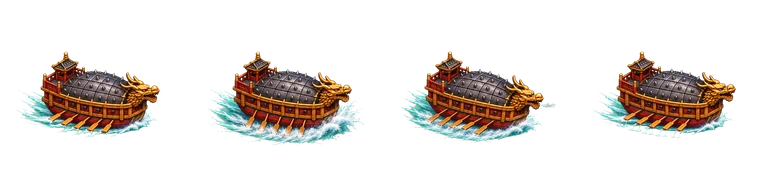
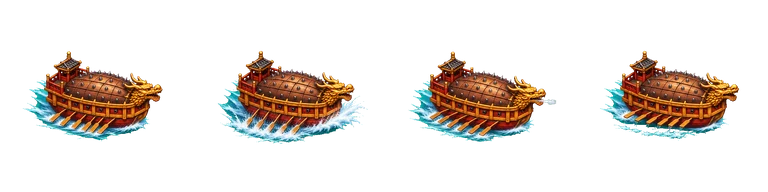
[디자인팀] 한국 결정안 미리보기 v2(나무 덮개 거북선, 성분 목록)
Claude-Session: https://claude.ai/code/session_013M9CK1DXpnv28ZtJdsmhuH

diff --git a/teams/2-디자인/작업기록.md b/teams/2-디자인/작업기록.md
@@ -227,3 +227,4 @@
 - 2026-11-28 한국 완성 샘플 준비: 컷인용 hero/korea.webp(315×320)는 화면 720px로 키우면 흐림 → round1 원본(1024)에서 640px 후보 preview/cutin/korea-cutin.webp(83KB) 만듦, 개발 요청 오면 맞춰 src 반영 여부 물어봄. 불꽃·포신 반동·먼지는 개발팀 요청 목록 기다림.
 - 2026-11-28 개발팀 확인: 코드가 소품 거의 전부 사용(drawHeroProp·직접 drawProp) → prop 정리 안 함, 61개 유지. backup/skill-prop-unused-20261128은 사본으로 남김.
 - 2026-11-28 22차 '살아 움직이는 스킬'(사용자 결정: Claude 안 + 사용자 의견 '소품에 스킬을 감싸서 날아가게'): 한국1 거북선 노 젓기 4칸, 한국2 불덩이 포탄 4칸 생성. 미리보기 preview/alive (https://claude.ai/artifact/WKbwtcj3csjrnUvPyU6Y4A) — 지금/새 안/감싸기 비교, 실제 room 바닥. 개발팀 작업15 요청(korea-2-blast·korea-1-hit·korea-dust) GPT 진행 중.
+- 2026-11-28 사용자 결정: 거북선=감싸기+장수 탑승, 천자총통=새 안+장수 탑승+맞은 뒤 적·땅 불탐. 성분 그림 11종(act·hit·dust·blast·burn·fire-ground·ground·debris) 완료, 거북선은 팀장 사실 확인대로 '나무 덮개+쇠송곳'으로 다시 그림(v1 철판은 korea-1/v1-iron). 미리보기 v2 https://claude.ai/artifact/WKbwtcj3csjrnUvPyU6Y4A. 다음: 사용자 확인 → src/assets/skill/seq/로 넣기, 다른 나라 확장.

diff --git a/teams/2-디자인/gpt-art/round22-alive/korea-1/result.md b/teams/2-디자인/gpt-art/round22-alive/korea-1/result.md
@@ -1,0 +1,3 @@
+[act4.png](./act4.png)를 저장했습니다. 1024×1024 PNG에 512×512 프레임 4개를 좌상 → 우상 → 좌하 → 우하 순으로 배치했습니다.
+
+배경을 `#00FF00`으로 정리하고 각 칸의 28px 여백을 확인했습니다. 게임에서 프레임당 0.08초로 설정하면 한 바퀴는 0.32초입니다.
